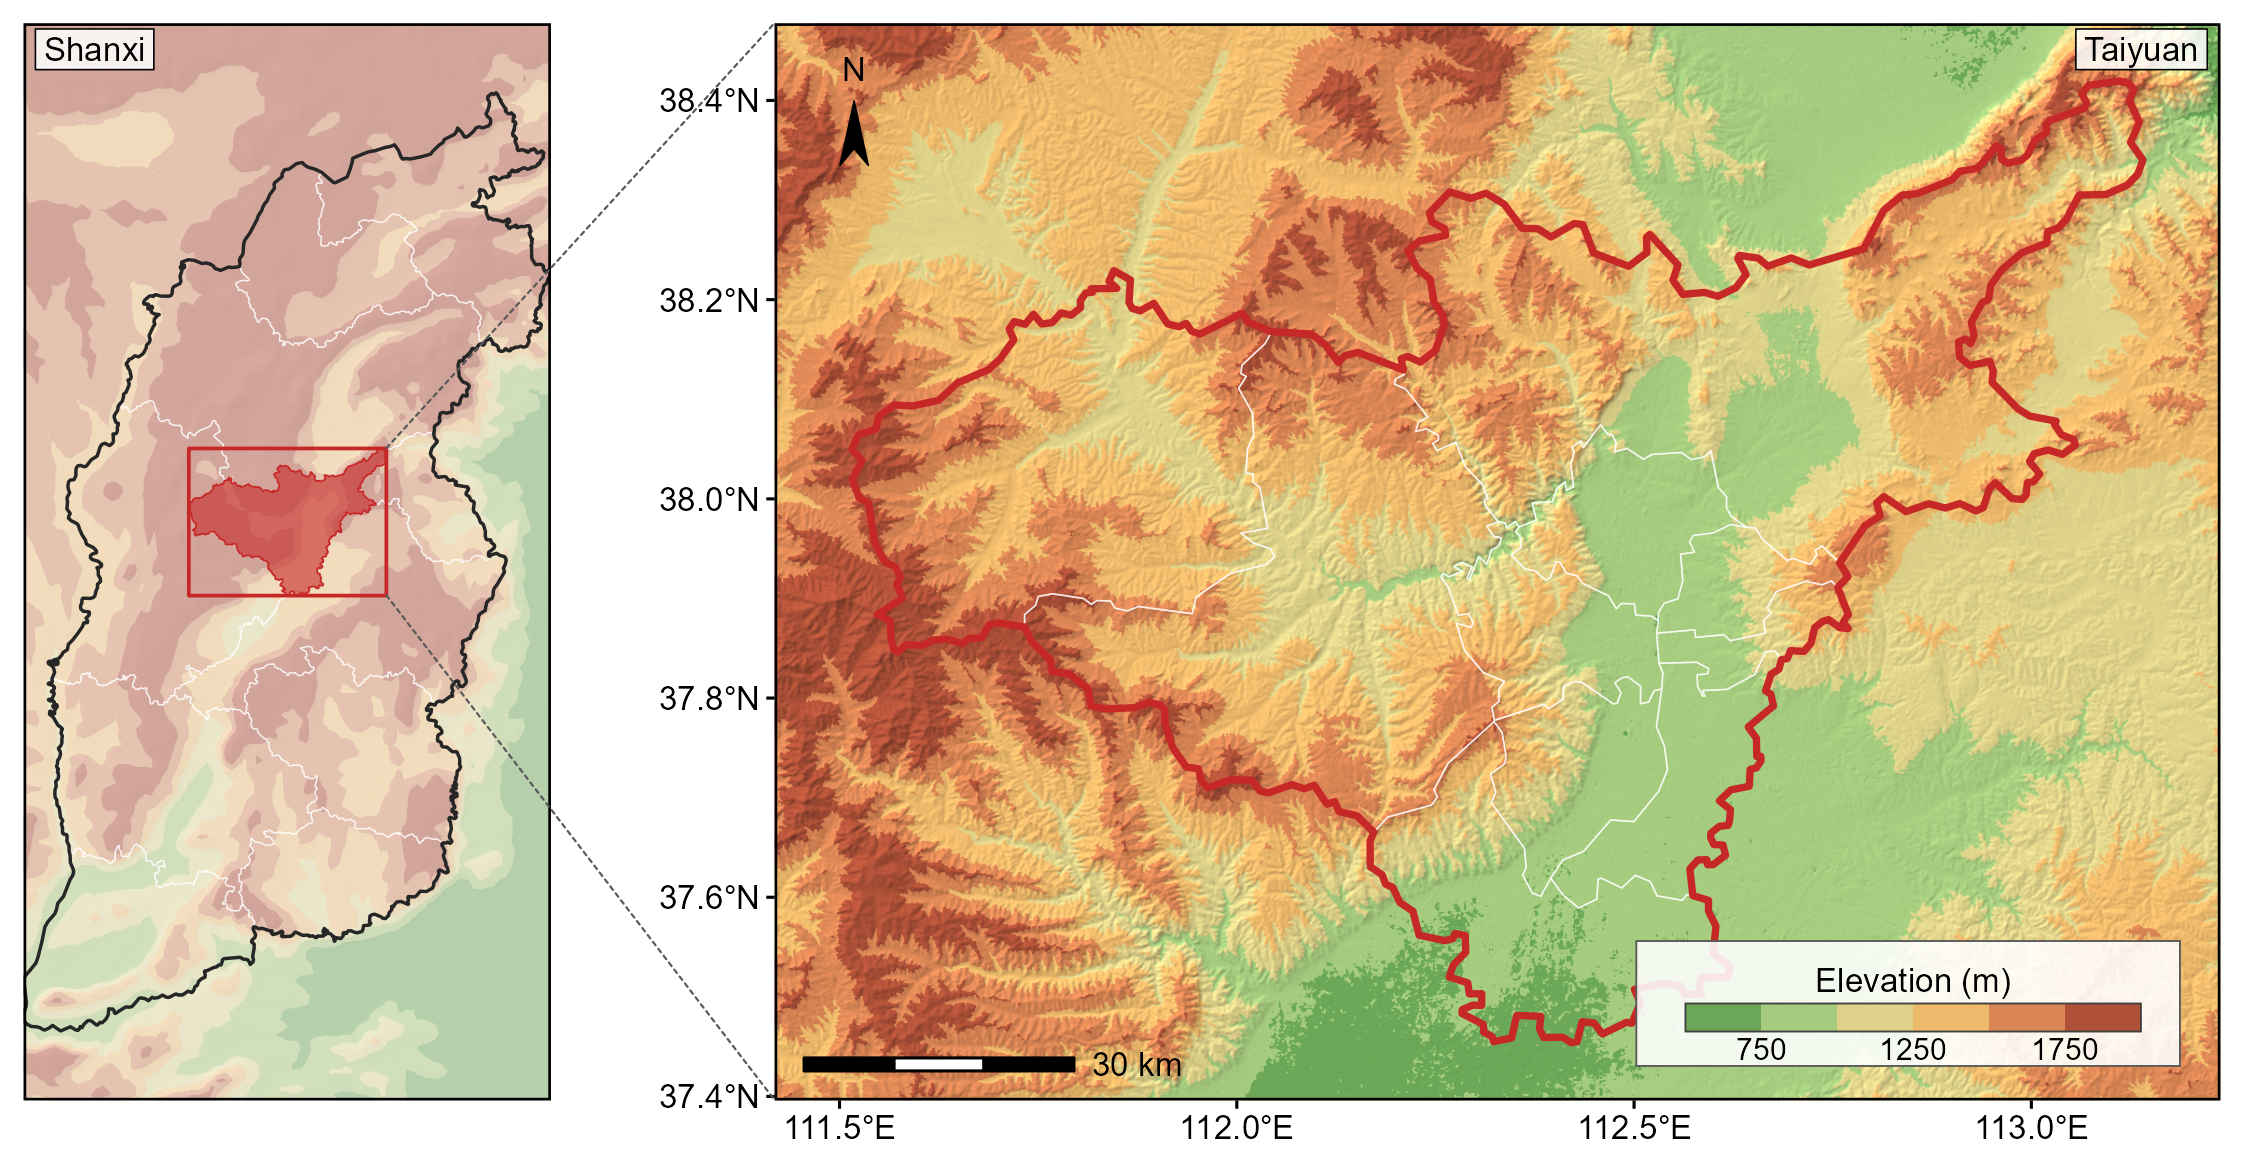
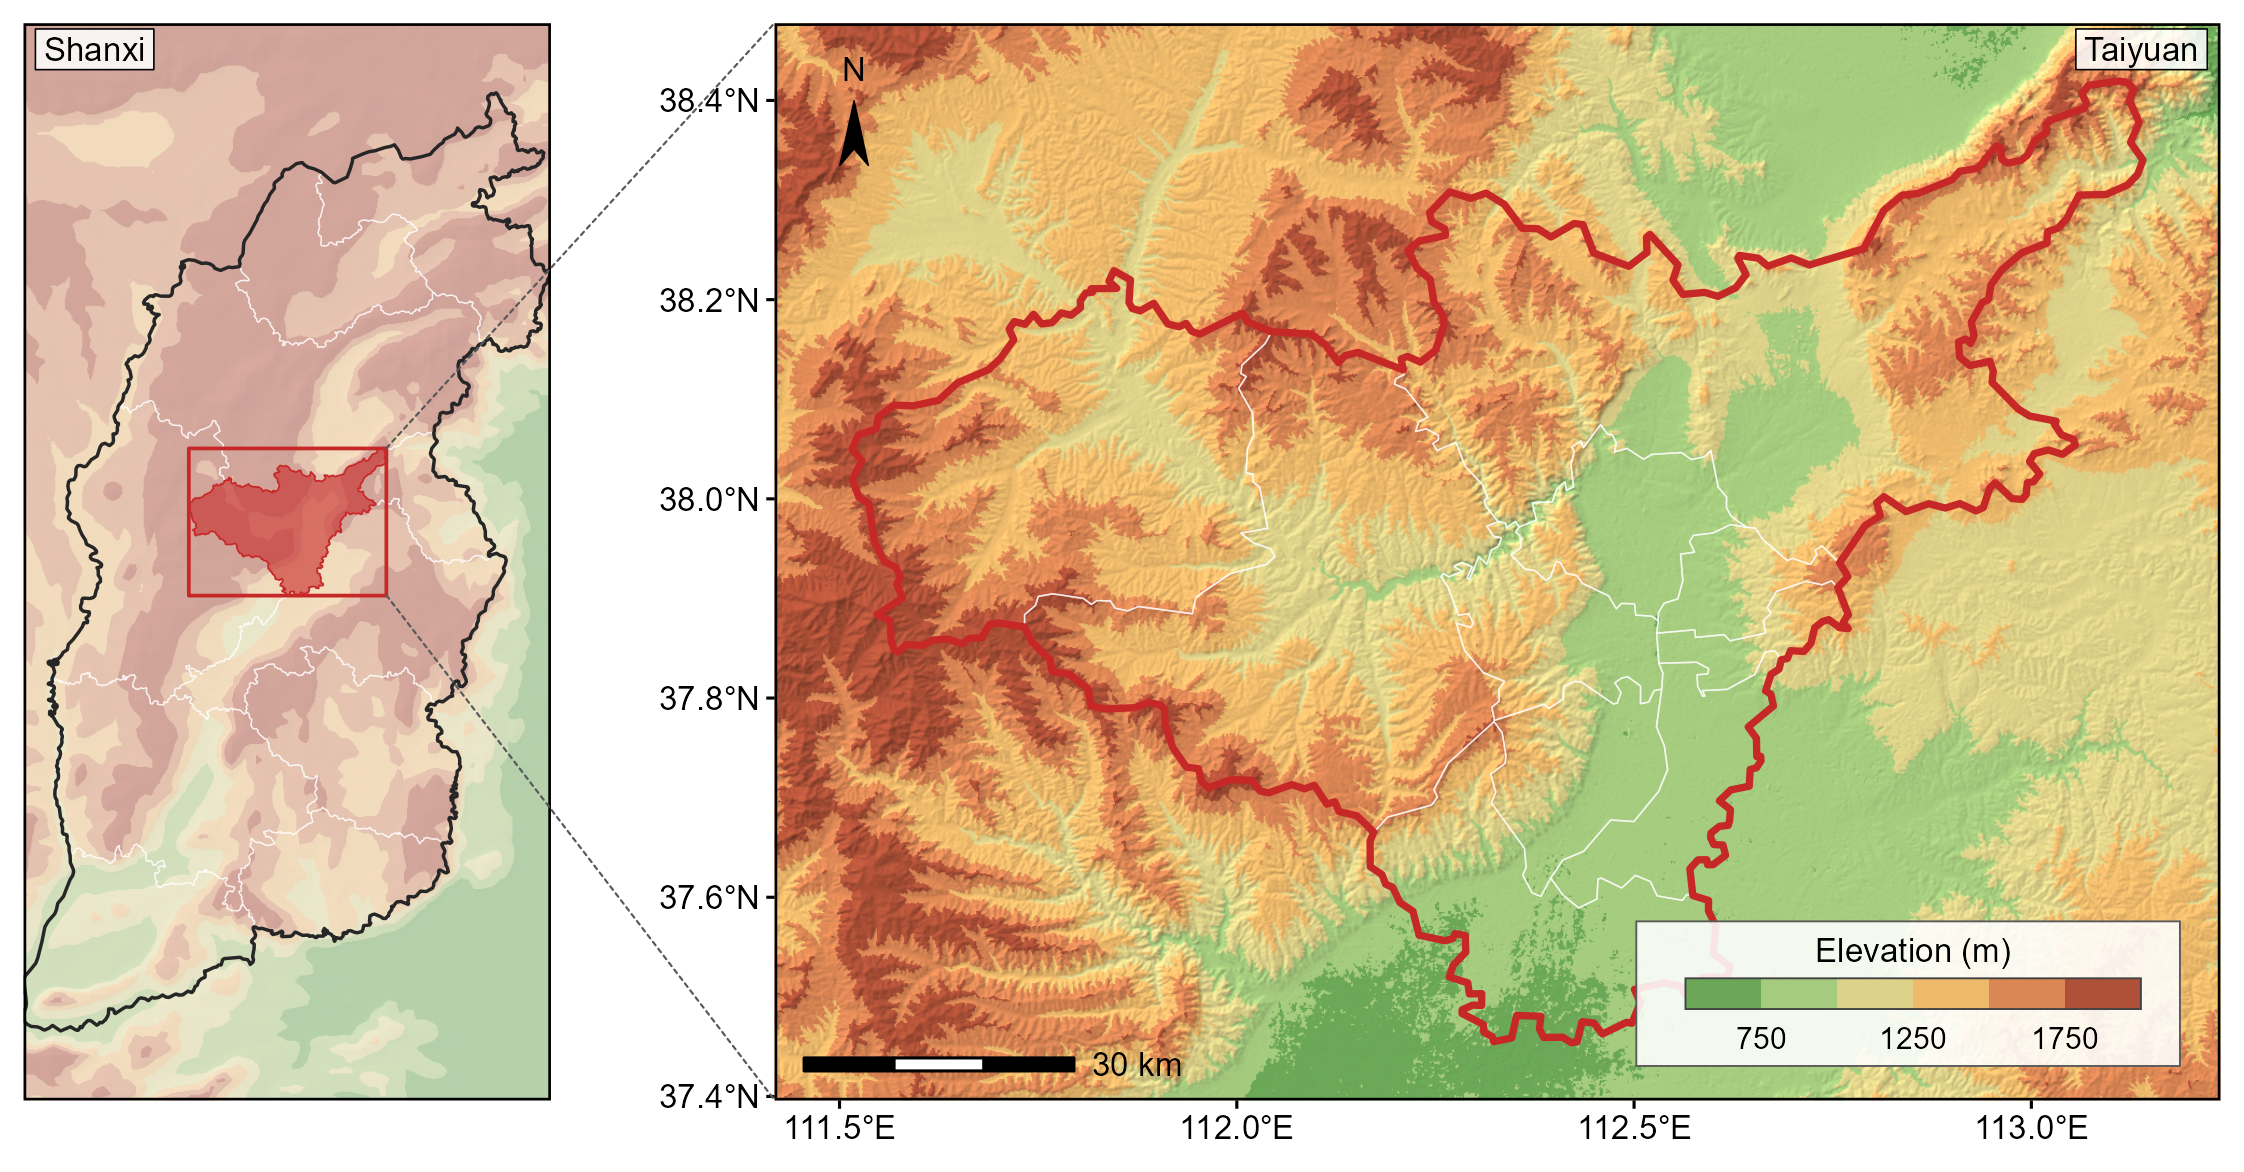
图例内部行距改按毫米排
刻度数字压在图例自身的边框上。原因是内部行距写成面板比例，而文字高度是固定的
毫米数：比例在 90 mm 面板上合适，面板一小文字占比就变大，必然相撞。

新增 elev_legend_block()，接收 panel_h_mm，由它推出各行位置，并自检整块是否离
图框有 FRAME_PAD 的余量。替换原 elev_legend() 与 legend_backing() 的组合用法，
后者保留供手工摆放使用。

文档补上通用结论：比例适合定位一个块，块内部的行距要用毫米。

Changed region(s): [[0.7175, 0.7679, 0.967, 0.9215]]

diff --git a/SKILL.md b/SKILL.md
@@ -333,6 +333,8 @@ fy <- function(t) W[["ymin"]] + t * (W[["ymax"]] - W[["ymin"]])
 
 Order the block: symbol rows on top, a thin separator, then the elevation ramp with its title above and tick labels below. Back it with a `fill = "white", alpha = 0.88` rect and a grey hairline border.
 
+**Lay the block's internals out in millimetres, not in fractions of the panel.** Text height is fixed in points, so fractional spacing tuned on a 90 mm panel collides on a 40 mm one and the tick labels grow into the block's own border. `elev_legend_block()` takes `panel_h_mm` and derives its spacing from it. The rule generalises: fractions are right for *placing* a block, millimetres are right for spacing *inside* it.
+
 Label ticks at **alternate** class boundaries. Six classes with five labelled boundaries at 8 pt run together into `10001250150017502000`.
 
 Say `Elevation (m)`. `m a.s.l.` spends four characters restating what "elevation" already means.
